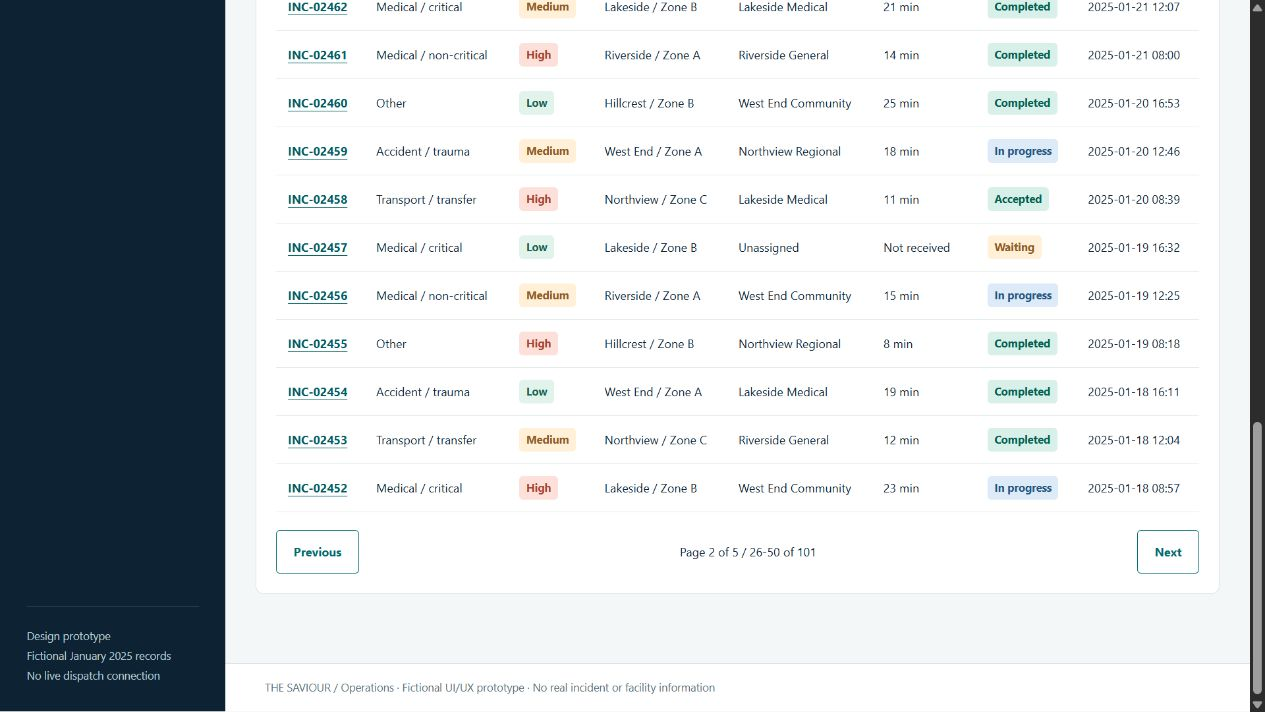
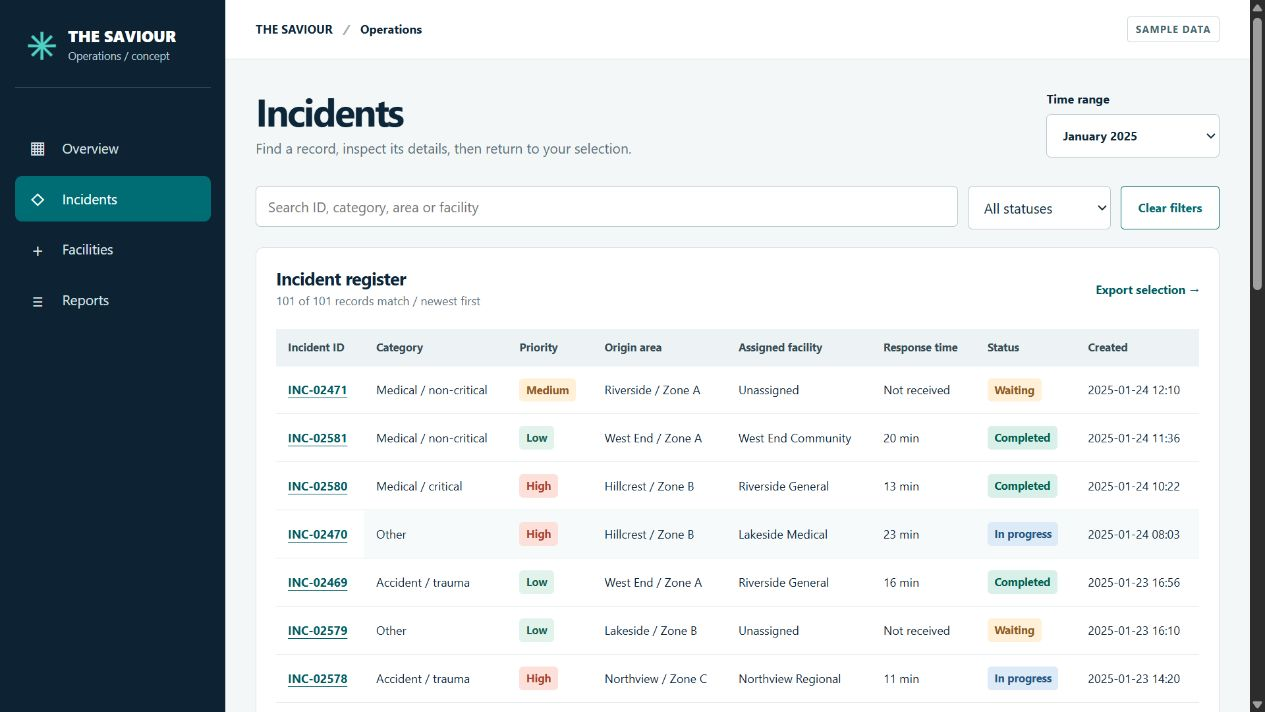
Keep paginated incident results in view and record live verification

diff --git a/task-04-dashboard/app.js b/task-04-dashboard/app.js
@@ -97,6 +97,7 @@ document.addEventListener('click', event => {
     pageNumber += button.id === 'next' ? 1 : -1;
     render();
     main.querySelector('h1').focus({preventScroll:true});
+    scrollTo({top:0,behavior:'instant'});
     announce(`Page ${pageNumber}; ${rows().length} records match`);
   } else if (button.id === 'export') download();
   else if (button.dataset.facility) {

diff --git a/task-04-dashboard/RESEARCH.md b/task-04-dashboard/RESEARCH.md
@@ -61,12 +61,13 @@ Monthly groups have different durations; the final group is explicitly labeled a
 | A status change dropped keyboard focus to the document body | Restore the changed control; preserve search caret |
 | Detail had no current sidebar section | Keep Incidents selected; preserve filters and register page on return |
 | Mobile menu lacked Escape recovery | Use a non-modal navigation disclosure with expanded state, Escape, focus return, and outside-focus closing |
+| Pagination left the view at the bottom of the new page | Move focus and scroll to the beginning of the new results page |
 | Skip link was treated as a hash route | Move focus to the current heading without replacing its section |
 
 ## Accessibility and validation scope
 
 Labels, landmarks, focus feedback, text status labels, row/column headers, a skip link, chart text/table alternatives, large controls, contained table overflow, and reduced-motion styles were inspected. The application uses native controls rather than an ARIA application menu or custom select. The mobile navigation is a non-modal disclosure, not a dialog.
 
-Nine automated regressions test fixture integrity, inclusive dates, totals, distributions, median calculation, filtering, CSV quoting, export scope, and safe text interpolation. Twenty internal browser checks cover the working interactions and responsive layouts. The downloaded report for January + Completed + Riverside General contained exactly 11 data rows; that actual artifact is preserved in `evidence/`.
+Nine automated regressions test fixture integrity, inclusive dates, totals, distributions, median calculation, filtering, CSV quoting, export scope, and safe text interpolation. Twenty-one internal browser checks cover the working interactions and responsive layouts. The downloaded report for January + Completed + Riverside General contained exactly 11 data rows; that actual artifact is preserved in `evidence/`.
 
 No participant usability sessions, screen-reader sessions, real service integration, or full WCAG certification were conducted. These limits do not remove the completed prototype work requested by the brief.

diff --git a/task-04-dashboard/README.md b/task-04-dashboard/README.md
@@ -25,7 +25,7 @@ The dataset contains 101 invented records across January 2025; 29 belong to 18-2
 | `RESEARCH.md` | Primary-source desk research, design inferences, metric definitions, refinements |
 | `EVALUATION.md` | All five Task 4 steps and seven PDF evaluation criteria |
 | `tests/data.test.cjs` | Nine data and export regression checks |
-| `evidence/` | Twelve real browser screenshots, 20 browser checks, and the downloaded 11-row CSV |
+| `evidence/` | Twelve real browser screenshots, 21 browser checks, and the downloaded 11-row CSV |
 
 ## Run locally
 
@@ -41,4 +41,4 @@ Open `http://localhost:8766/`. The application itself has no package dependencie
 node --test tests/data.test.cjs
 ```
 
-Validation on 16 November 2026: **9/9 automated checks and 20/20 internal browser checks passed**. The actual downloaded CSV matched the 11 selected records. Desktop, tablet, and mobile layouts were inspected. These checks do not constitute a participant study or a full accessibility conformance audit.
+Validation on 16 November 2026: **9/9 automated checks and 21/21 internal browser checks passed**. The actual downloaded CSV matched the 11 selected records. Desktop, tablet, and mobile layouts were inspected. These checks do not constitute a participant study or a full accessibility conformance audit.

diff --git a/task-04-dashboard/EVALUATION.md b/task-04-dashboard/EVALUATION.md
@@ -30,7 +30,7 @@ Reviewed against the complete 13-page **UI_UX DEVELOPMENT TASK LIST(1).pdf**, es
 
 - `node --test tests/data.test.cjs`: **9 passed, 0 failed**.
 - `node --check app.js`: passed.
-- Internal browser walkthrough: **20 passed, 0 failed** in [the recorded results](evidence/browser-checks.json).
+- Internal browser walkthrough: **21 passed, 0 failed** in [the recorded results](evidence/browser-checks.json).
 - Browser keyboard tests confirmed range/status changes retain focus. Escape closes mobile navigation and returns focus to its toggle. The skip link preserves the current section.
 - Requested 390px viewport: recorded content width 375px, table region 305px, internal table scroll width 880px, with no document overflow. Requested 320px content width was 305px; requested 768px content width was 753px because of the scrollbar gutter.
 - The actual [downloaded CSV](evidence/export-month-completed-riverside.csv) contained **11 rows**, each matching January + Completed + Riverside General. It was not merely inferred from the export button.
